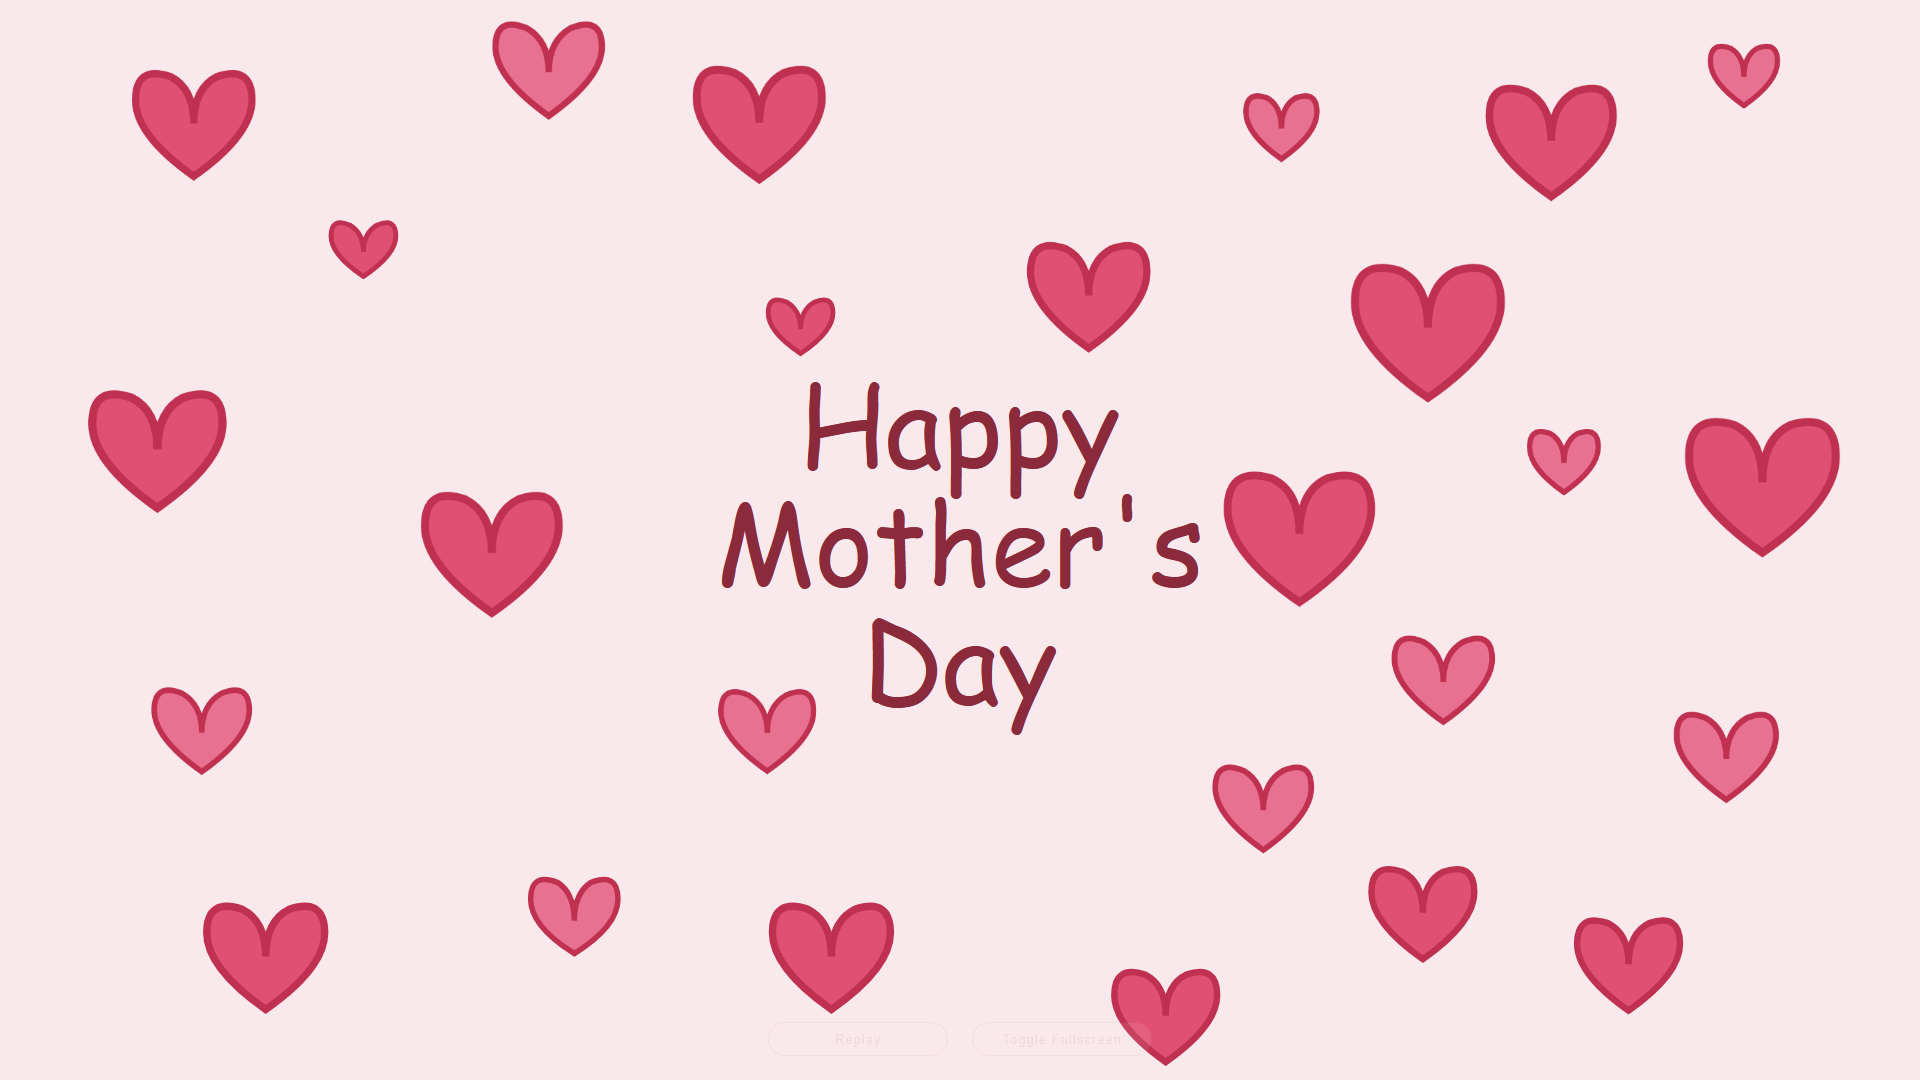
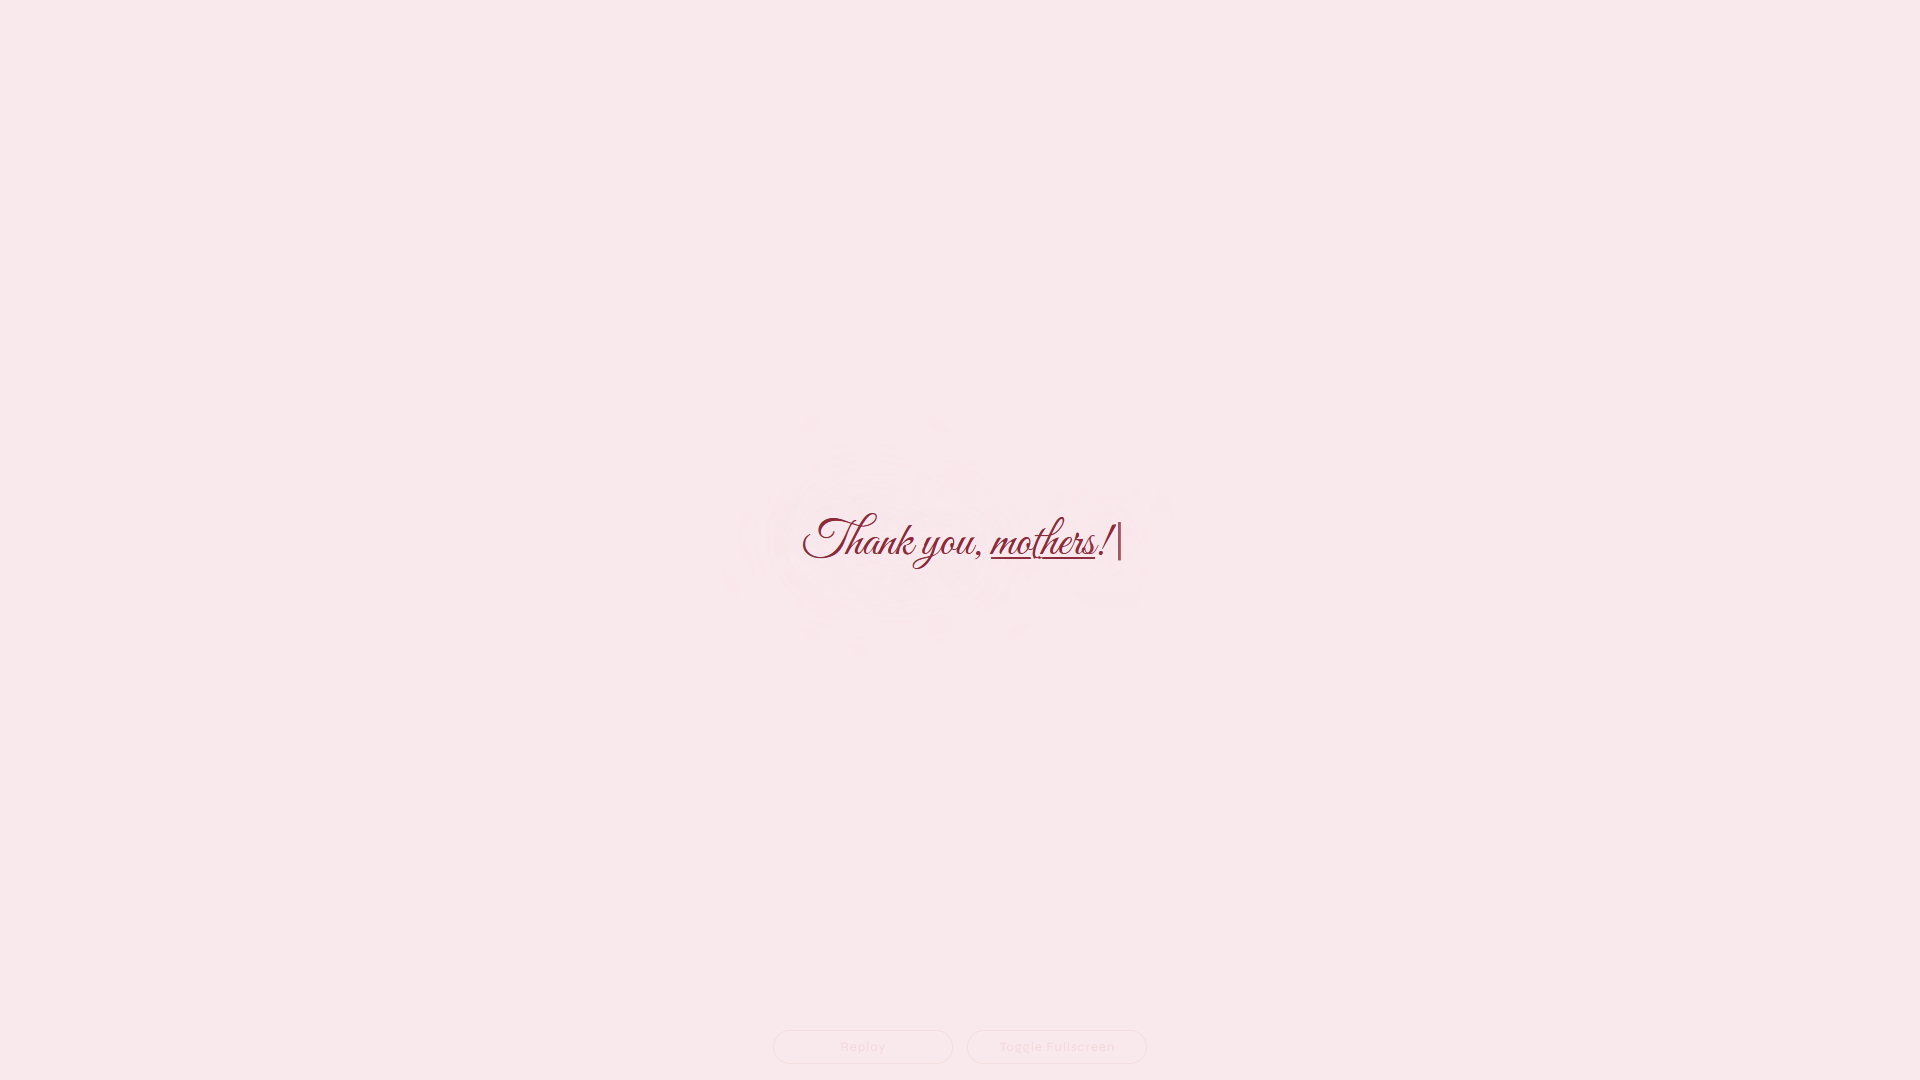
Add preview images for Mother's Day Card and Happy Birthday Card.

diff --git a/src/data/index.ts b/src/data/index.ts
@@ -3,6 +3,7 @@ import hairDesignsImg from '../assets/hair-designs-website.png';
 import bernieBearsImg from '../assets/the-bernie-bears-website.png';
 import techGeekImg from '../assets/tech-geek-website.png';
 import mothersDayCardPreview from '../assets/mothers-day-card-preview-image.png';
+import happyBirthdayCardPreview from '../assets/happy-birthday-card-preview-image.png';
 
 // ── Projects ───────────────────────────────────────────────
 export const projects: Project[] = [
@@ -123,7 +124,7 @@ export const greetingCards: GreetingCard[] = [
     title: 'Happy Birthday',
     occasion: 'Birthday',
     description: 'An animated Happy Birthday card with confetti, ballons and a message.',
-    previewUrl: 'https://images.unsplash.com/photo-1534796636912-3b95b3ab5986?w=600&q=80',
+    previewUrl: happyBirthdayCardPreview,
     liveUrl: '/happybirthdaycard',
     tags: ['Canvas', 'Animation', 'JavaScript', 'Typescript', 'GSAP', 'React', 'Birthday'],
     year: 2024,